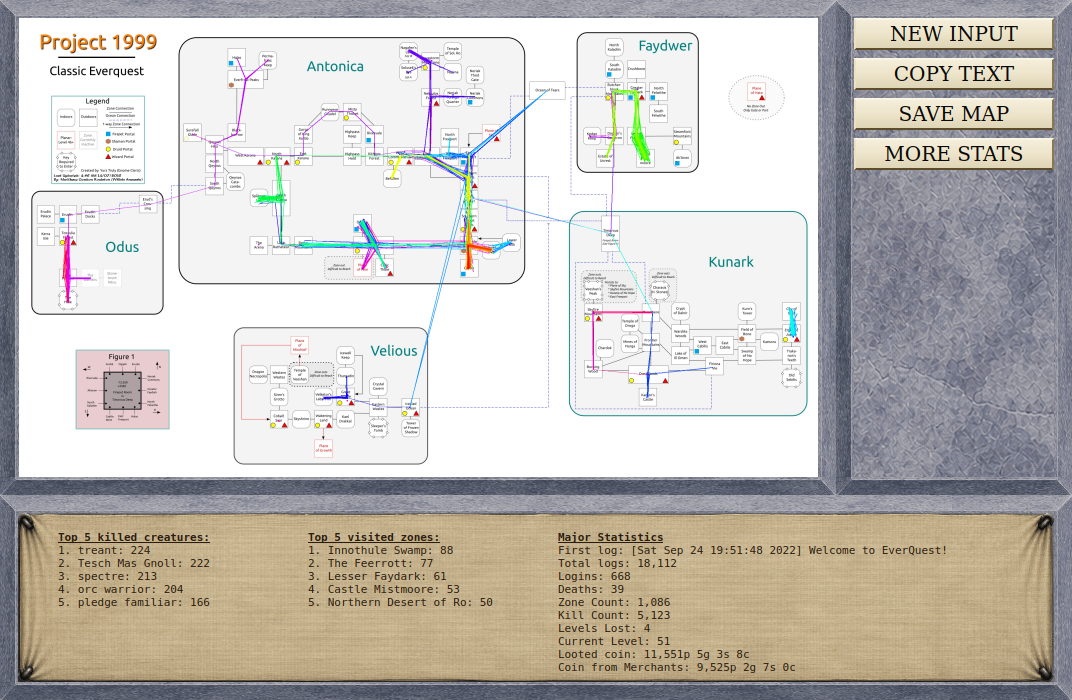
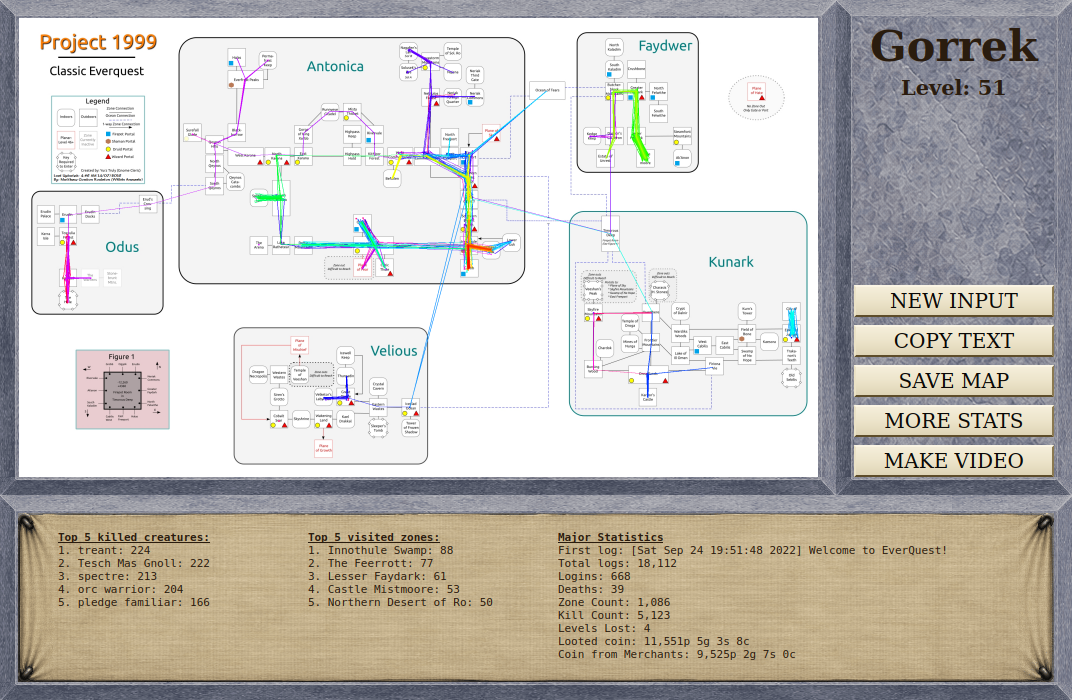
Update README screenshot to current Output screen
Regenerate example.PNG from the sample log so it shows the latest results
window, including the character name/level heading and MAKE VIDEO button.

https://claude.ai/code/session_01REzDsvQWJr7u6BB3h9kDvy

diff --git a/README.md b/README.md
@@ -12,7 +12,7 @@ Instructions:
 Generate a visual travel map and play summary from your EverQuest character's
 log files. Drop in your logs, pick your character, click Generate.
 
-![Results window for Gorrek on Project 1999 — rendered travel map, top kills, top zones, major statistics, and the NEW INPUT / COPY TEXT / SAVE MAP / MORE STATS buttons](example.PNG)
+![Results window for Gorrek on Project 1999 — character name and level, rendered travel map, top kills, top zones, major statistics, and the NEW INPUT / COPY TEXT / SAVE MAP / MORE STATS / MAKE VIDEO buttons](example.PNG)
 
 [![tests](https://github.com/ajbtech/EQ-Travel-Map/actions/workflows/test.yml/badge.svg)](https://github.com/ajbtech/EQ-Travel-Map/actions/workflows/test.yml)
 [![License: MIT](https://img.shields.io/badge/License-MIT-yellow.svg)](LICENSE)
